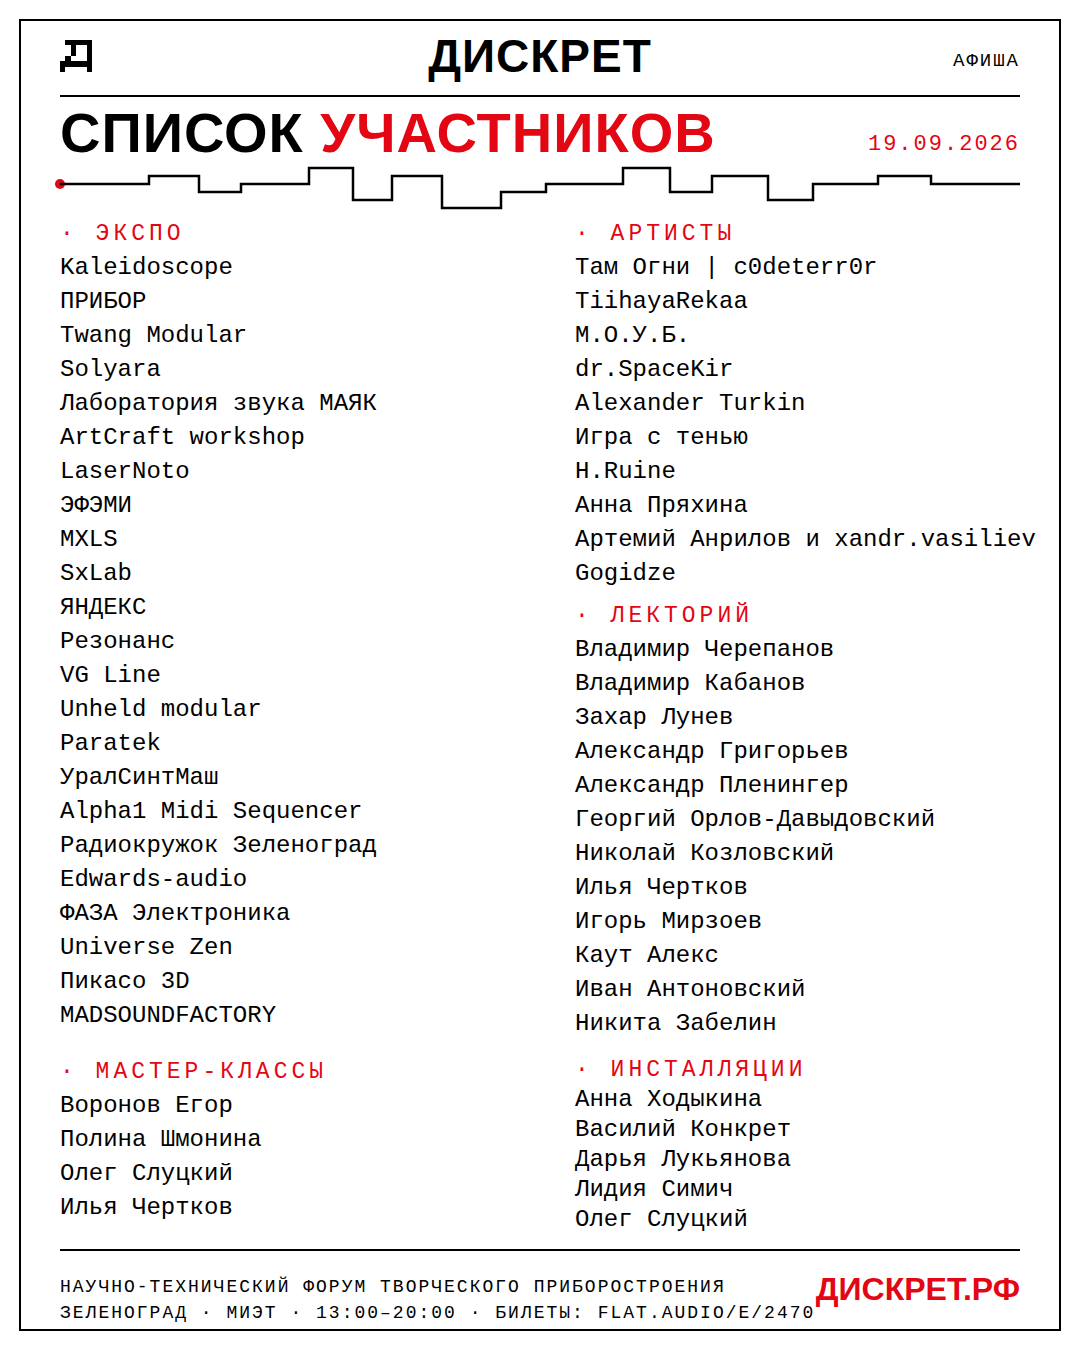
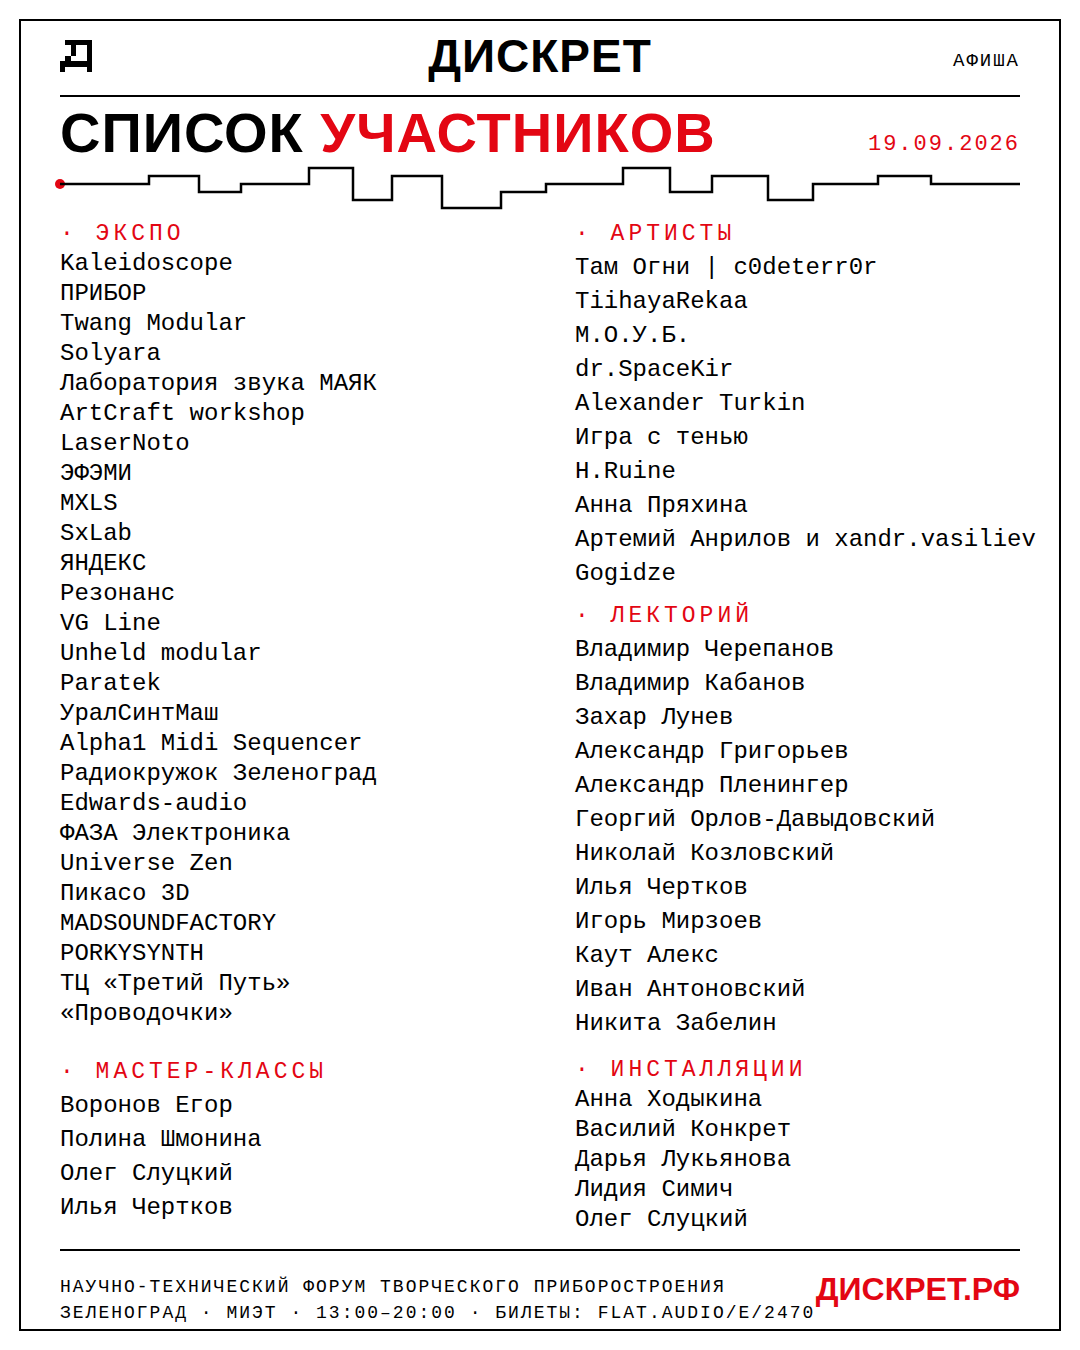
Три новых участника экспо: PORKYSYNTH, ТЦ «Третий Путь», «Проводочки»
- карточки компаний с фото: PORKYSYNTH (Роман Торхов, Челябинск),
  Творческий Центр «Третий Путь» (Раскольникова, Крафтский, Невзоров,
  moonunit.com — описание пришлют), магазин коммутации «Проводочки»
- афиша списка участников: экспо теперь 26 позиций, колонка набрана
  плотнее

Claude-Session: https://claude.ai/code/session_01J7cakNvVwscKzgnd8yf78u

Changed region(s): [[0.0306, 0.1867, 0.3667, 0.7778]]

diff --git a/branding/app/index.html b/branding/app/index.html
@@ -375,7 +375,7 @@
 </div>
 
 <script>
-window.PHOTOS = {"ac1":"photos/ac1.jpg","ac2":"photos/ac2.jpg","alphaseq":"photos/alphaseq.jpg","arch1":"photos/arch1.jpg","arch2":"photos/arch2.jpg","astrovox":"photos/astrovox.jpg","bj":"photos/bj.jpg","bj2":"photos/bj2.jpg","bj3":"photos/bj3.jpg","hgx":"photos/hgx.jpg","hgx2":"photos/hgx2.jpg","hruine1":"photos/hruine1.jpg","laser":"photos/laser.jpg","laser1":"photos/laser1.jpg","laser2":"photos/laser2.jpg","lnlogo":"photos/lnlogo.png","lnreal":"photos/lnreal.png","moub1":"photos/moub1.jpg","para":"photos/para.jpg","para2":"photos/para2.jpg","para3":"photos/para3.jpg","shadow1":"photos/shadow1.jpg","shadow2":"photos/shadow2.jpg","spacekir1":"photos/spacekir1.jpg","sx":"photos/sx.jpg","sx2":"photos/sx2.jpg","sxlab":"photos/sxlab.jpg","tamogni1":"photos/tamogni1.jpg","tiihaya1":"photos/tiihaya1.jpg","tiihaya2":"photos/tiihaya2.jpg","tiihaya3":"photos/tiihaya3.jpg","tw":"photos/tw.jpg","tw2":"photos/tw2.jpg","tw3":"photos/tw3.jpg","tw4":"photos/tw4.jpg","vg":"photos/vg.jpg","vg1":"photos/vg1.jpg","vg2":"photos/vg2.jpg","vg3":"photos/vg3.jpg","kaledoscope":"photos/kaledoscope.jpg","unost":"photos/unost.jpg","sl1":"photos/sl1.jpg","sl2":"photos/sl2.jpg","org_novikov":"photos/org_novikov.jpg","org_grigoriev":"photos/org_grigoriev.jpg","org_slutsky":"photos/org_slutsky.jpg","org_boykov":"photos/org_boykov.jpg","uz1":"photos/uz1.jpg","uz2":"photos/uz2.jpg","uz3":"photos/uz3.jpg","uz4":"photos/uz4.jpg","tr1":"photos/tr1.jpg","mayak":"photos/mayak.jpg","pribor1":"photos/pribor1.jpg","lg_picaso":"photos/lg_picaso.svg","lg_soyuz":"photos/lg_soyuz.jpg","lg_baklazhania":"photos/lg_baklazhania.svg","lg_efemi":"photos/lg_efemi.svg","lg_angstrem":"photos/lg_angstrem.svg","lg_ioaudio":"photos/lg_ioaudio.svg","lg_flataudio":"photos/lg_flataudio.svg","lg_infoportal":"photos/lg_infoportal.svg","lg_lasernoto":"photos/lg_lasernoto.svg"};
+window.PHOTOS = {"ac1":"photos/ac1.jpg","ac2":"photos/ac2.jpg","alphaseq":"photos/alphaseq.jpg","arch1":"photos/arch1.jpg","arch2":"photos/arch2.jpg","astrovox":"photos/astrovox.jpg","bj":"photos/bj.jpg","bj2":"photos/bj2.jpg","bj3":"photos/bj3.jpg","hgx":"photos/hgx.jpg","hgx2":"photos/hgx2.jpg","hruine1":"photos/hruine1.jpg","laser":"photos/laser.jpg","laser1":"photos/laser1.jpg","laser2":"photos/laser2.jpg","lnlogo":"photos/lnlogo.png","lnreal":"photos/lnreal.png","moub1":"photos/moub1.jpg","para":"photos/para.jpg","para2":"photos/para2.jpg","para3":"photos/para3.jpg","shadow1":"photos/shadow1.jpg","shadow2":"photos/shadow2.jpg","spacekir1":"photos/spacekir1.jpg","sx":"photos/sx.jpg","sx2":"photos/sx2.jpg","sxlab":"photos/sxlab.jpg","tamogni1":"photos/tamogni1.jpg","tiihaya1":"photos/tiihaya1.jpg","tiihaya2":"photos/tiihaya2.jpg","tiihaya3":"photos/tiihaya3.jpg","tw":"photos/tw.jpg","tw2":"photos/tw2.jpg","tw3":"photos/tw3.jpg","tw4":"photos/tw4.jpg","vg":"photos/vg.jpg","vg1":"photos/vg1.jpg","vg2":"photos/vg2.jpg","vg3":"photos/vg3.jpg","kaledoscope":"photos/kaledoscope.jpg","unost":"photos/unost.jpg","porky1":"photos/porky1.jpg","moon1":"photos/moon1.jpg","prov1":"photos/prov1.jpg","prov2":"photos/prov2.jpg","sl1":"photos/sl1.jpg","sl2":"photos/sl2.jpg","org_novikov":"photos/org_novikov.jpg","org_grigoriev":"photos/org_grigoriev.jpg","org_slutsky":"photos/org_slutsky.jpg","org_boykov":"photos/org_boykov.jpg","uz1":"photos/uz1.jpg","uz2":"photos/uz2.jpg","uz3":"photos/uz3.jpg","uz4":"photos/uz4.jpg","tr1":"photos/tr1.jpg","mayak":"photos/mayak.jpg","pribor1":"photos/pribor1.jpg","lg_picaso":"photos/lg_picaso.svg","lg_soyuz":"photos/lg_soyuz.jpg","lg_baklazhania":"photos/lg_baklazhania.svg","lg_efemi":"photos/lg_efemi.svg","lg_angstrem":"photos/lg_angstrem.svg","lg_ioaudio":"photos/lg_ioaudio.svg","lg_flataudio":"photos/lg_flataudio.svg","lg_infoportal":"photos/lg_infoportal.svg","lg_lasernoto":"photos/lg_lasernoto.svg"};
 // фото лежат отдельными файлами в photos/ и подгружаются лениво
 const ORG = {
   inst: [
@@ -659,6 +659,15 @@ const C = [
   { id:"edwards", name:"Edwards-audio", role:"Аудиолаборатория", photos:[], members:[], links:[], desc:"" },
   { id:"faza", name:"ФАЗА Электроника", role:"—", photos:[], members:[], links:[], desc:"" },
   { id:"rezonans", name:"Резонанс", role:"—", photos:[], members:[], links:[], desc:"" },
+  { id:"porkysynth", name:"PORKYSYNTH", role:"DIY-модульные синтезаторы · Челябинск", photos:["porky1"],
+    members:[{name:"Роман Торхов"}], links:[],
+    desc:"DIY-энтузиаст, в прошлом бас-гитарист: собирает и паяет модульные синтезаторы. Несёт DIY в массы — делится опытом и помогает другим погрузиться в мир электроники." },
+  { id:"tretiyput", name:"Творческий Центр «Третий Путь»", role:"Москва — Санкт-Петербург", photos:["moon1"],
+    members:[{name:"Лада Раскольникова"},{name:"Антон Крафтский"},{name:"Егор Невзоров"}],
+    links:[{t:"САЙТ",u:"https://moonunit.com"}], desc:"" },
+  { id:"provodochki", name:"«Проводочки»", role:"Магазин коммутации · Москва", photos:["prov1","prov2"], members:[],
+    links:[{t:"VK",u:"https://vk.ru/mycables"}],
+    desc:"Локальный магазинчик коммутации для ваших музыкально-синтезаторных нужд. Базируемся в Москве, шлём проводочки повсюду." },
   { id:"universezen", name:"Universe Zen", role:"Педали эффектов · Санкт-Петербург", photos:["uz1","uz2","uz3","uz4"],
     members:[{name:"Ростислав Савари (Слава Дзен)"}],
     links:[{t:"VK",u:"https://vk.ru/universezen"},{t:"TG",u:"https://t.me/universezenaudio"}],
